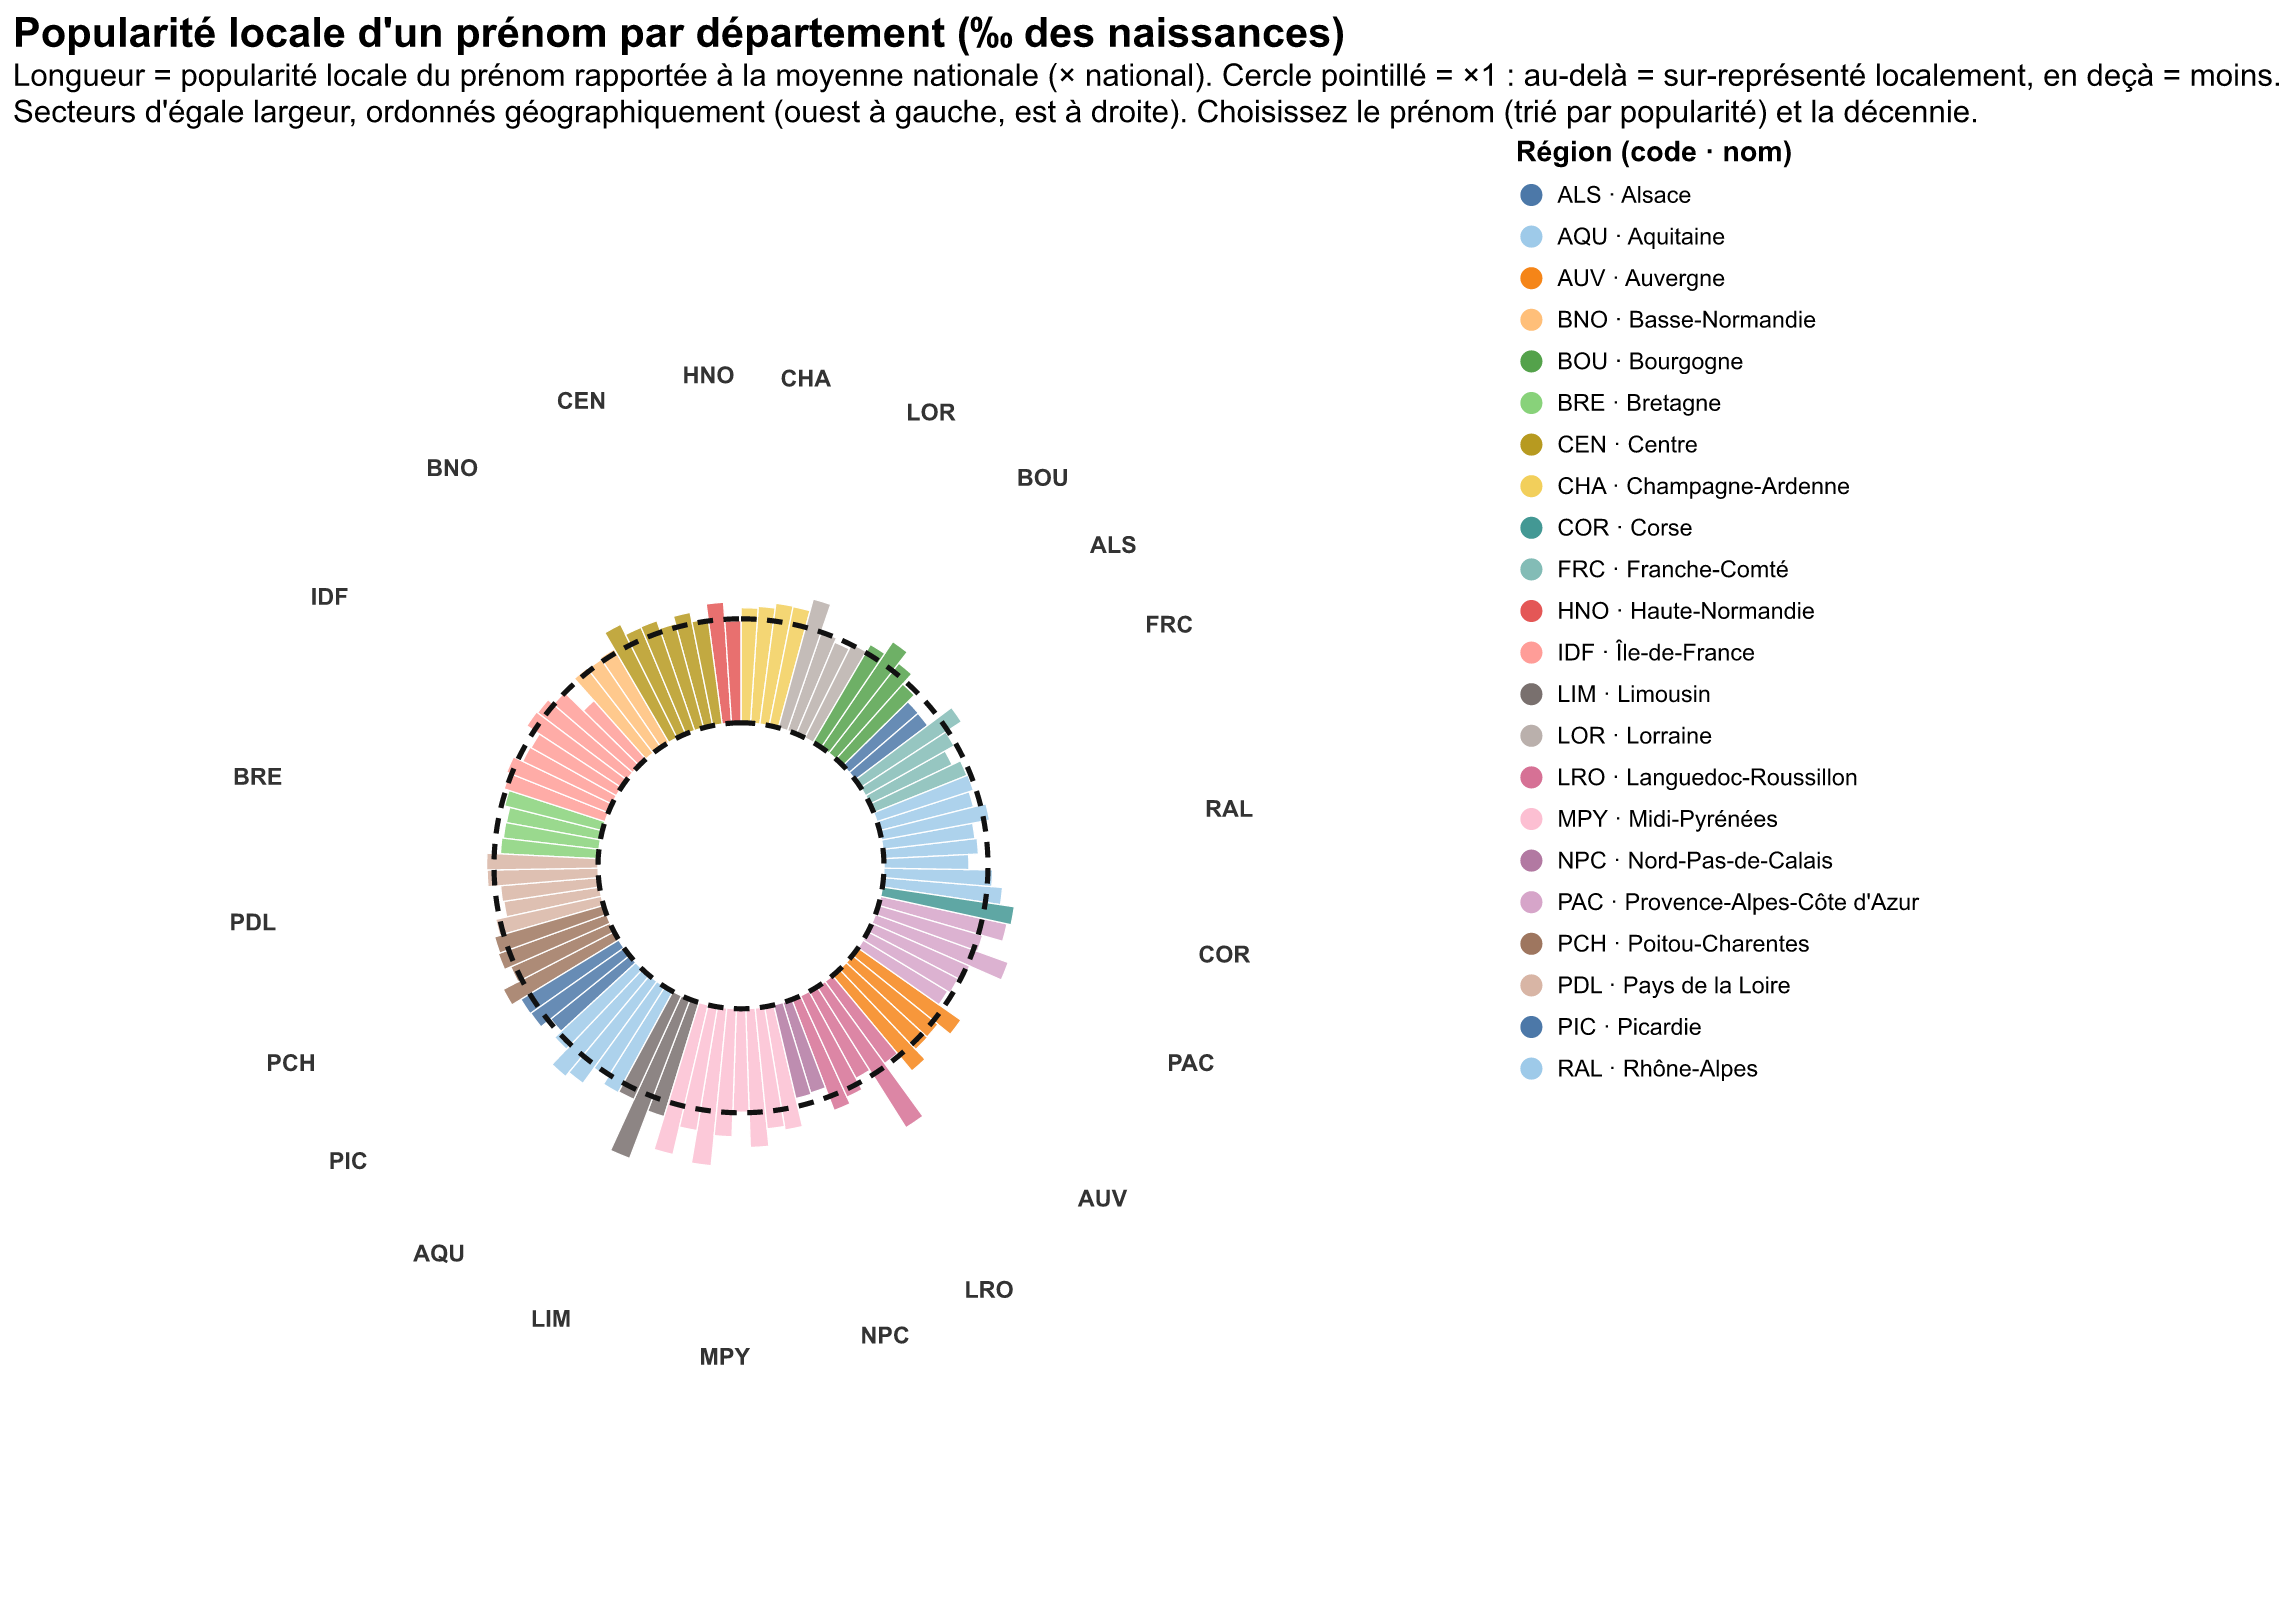
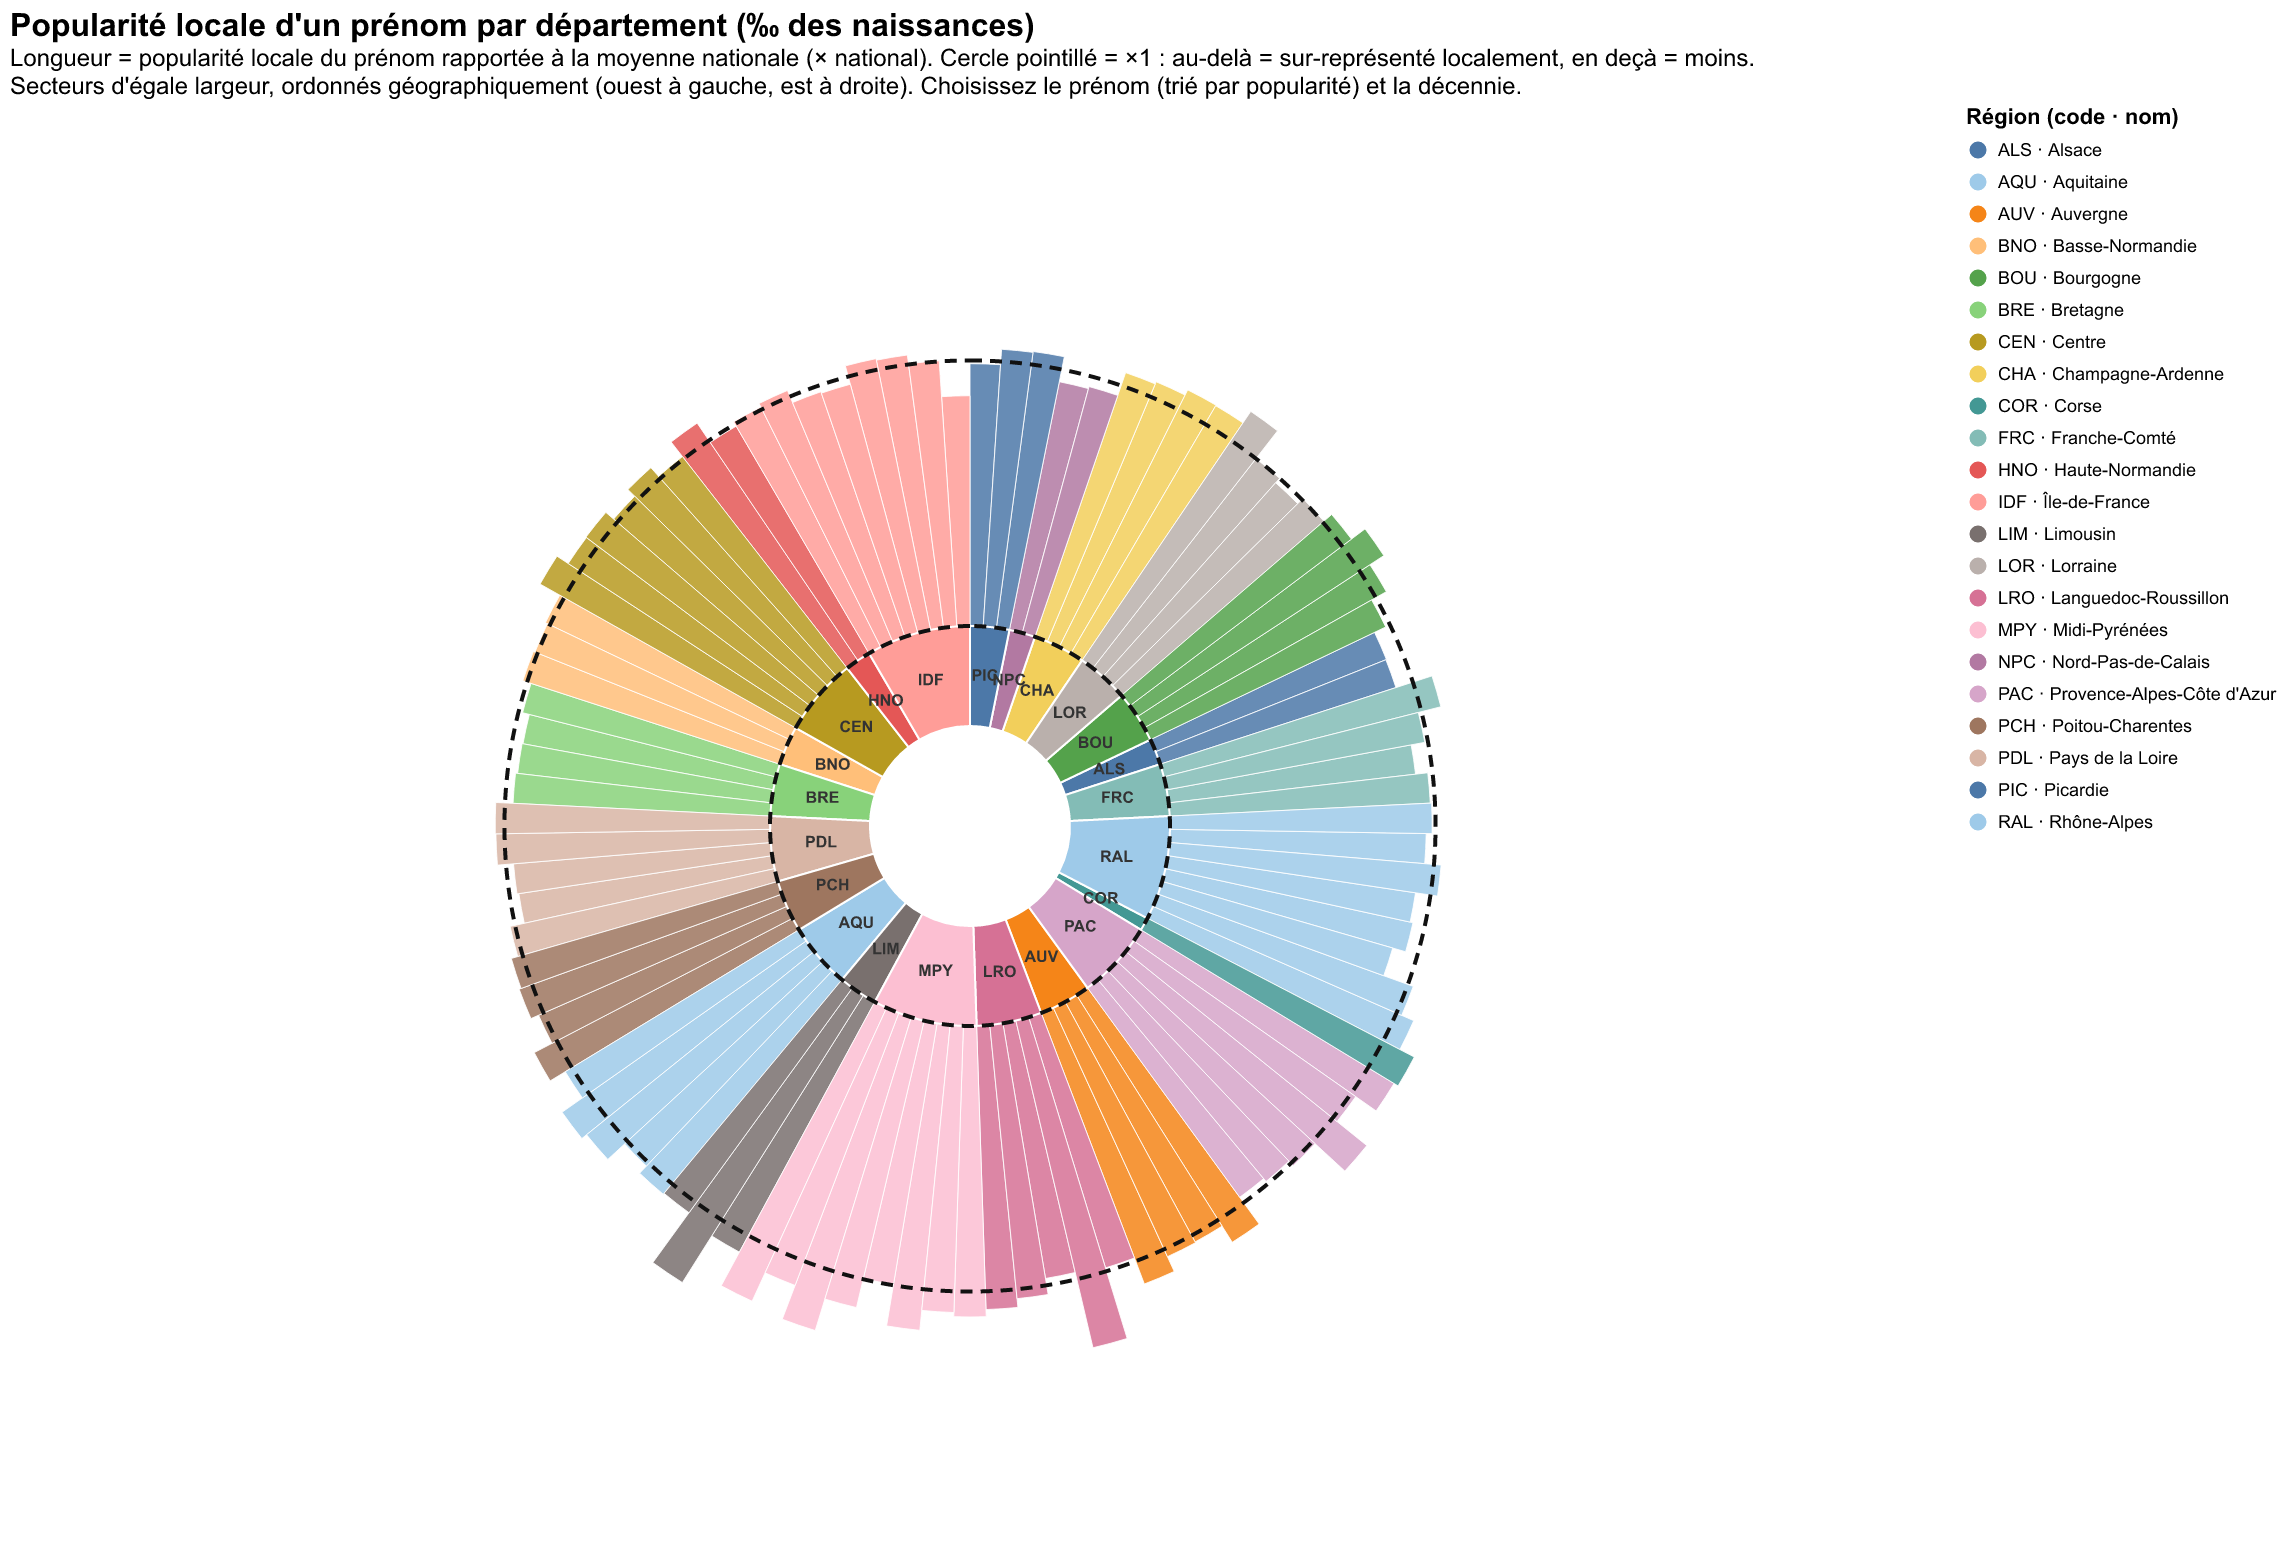
Updating Viz2 Sunburst2 to adjust size to popularity and add region layer

diff --git a/scripts/build_viz2_sunburst_2.py b/scripts/build_viz2_sunburst_2.py
@@ -13,13 +13,14 @@ Reprend les remarques du groupe :
 """
 import json
 import math
+import numpy as np
 import pandas as pd
 import altair as alt
 
 alt.data_transformers.disable_max_rows()
 
 # ---------------- données ----------------
-raw = pd.read_csv("data/dpt2020.csv", sep=";", dtype=str)
+raw = pd.read_csv("../data/dpt2020.csv", sep=";", dtype=str)
 raw = raw[(raw.preusuel != "_PRENOMS_RARES") & (raw.annais != "XXXX") & (raw.dpt != "XX")]
 raw["nombre"] = raw["nombre"].astype(int)
 raw["annais"] = raw["annais"].astype(int)
@@ -46,7 +47,7 @@ raw["region"] = raw.dpt.map(DEP2REG)
 raw = raw[raw.region.notna()]
 
 # ---------------- centroïdes & ordre pseudo-géographique ----------------
-feats = json.load(open("data/departements.geojson", encoding="utf-8"))["features"]
+feats = json.load(open("../data/departements.geojson", encoding="utf-8"))["features"]
 DNAME = {f["properties"]["code"]: f["properties"]["nom"] for f in feats}
 
 
@@ -70,18 +71,24 @@ cx = sum(cent[d][0] for d in deps) / len(deps)
 cy = sum(cent[d][1] for d in deps) / len(deps)
 
 
-def bearing(d):  # 0 = nord, sens horaire
+def dep_bearing(d):
     lon, lat = cent[d]
     return math.atan2(lon - cx, lat - cy) % (2 * math.pi)
 
+def reg_bearing(reg):
+    deps = REGIONS[reg][1].split()
 
-reg_bear = {reg: sum(bearing(d) for d in REGIONS[reg][1].split())
-            / len(REGIONS[reg][1].split()) for reg in REGIONS}
+    lon = sum(cent[d][0] for d in deps) / len(deps)
+    lat = sum(cent[d][1] for d in deps) / len(deps)
+
+    return math.atan2(lon - cx, lat - cy) % (2 * math.pi)
+
+
+reg_bear = {reg: reg_bearing(reg) for reg in REGIONS}
 ordered = []
 for reg in sorted(REGIONS, key=lambda r: reg_bear[r]):
-    for d in sorted(REGIONS[reg][1].split(), key=bearing):
+    for d in sorted(REGIONS[reg][1].split(), key=dep_bearing):
         ordered.append(d)
-
 N = len(ordered)
 W = 2 * math.pi / N
 geo = {d: dict(theta=i * W, theta2=(i + 1) * W) for i, d in enumerate(ordered)}
@@ -125,6 +132,25 @@ nd = nd.merge(name_nat[["preusuel", "decade", "nat_permille"]], on=["preusuel", 
 nd["ratio"] = (nd.permille / nd.nat_permille).round(3)
 # données embarquées slim (la géo est jointe via lookup pour alléger le HTML)
 val_df = nd[["preusuel", "dpt", "decade", "ratio", "permille", "nat_permille"]]
+# Square root transform for a better scale
+val_df["permille"]=np.sqrt(val_df["permille"])
+val_df["nat_permille"]=np.sqrt(val_df["nat_permille"])
+
+# ---------------- préparation anneau région ----------------
+# Number of departments per region
+reg_df['num_d'] = [
+    len(REGIONS[region][1].split())
+    for region in reg_df['region']
+]
+reg_df['reglabel']=reg_df['code'] + " · " + reg_df['region']
+
+#Computation of angular values for each region
+delta = 2 * math.pi / 95
+tmp = reg_df.sort_values("tmid").copy()
+tmp["width"] = tmp["num_d"] * delta
+tmp["theta"] = tmp["width"].cumsum().shift(fill_value=0)
+tmp["theta2"] = tmp["theta"] + tmp["width"]
+reg_df = tmp.sort_index()
 
 # ---------------- paramètres interactifs ----------------
 import sys
@@ -138,9 +164,14 @@ prenom = alt.param(name="prenom", value=DEF_NAME,
 dec = alt.param(name="decennie", value=DEF_DEC,
                 bind=alt.binding_range(min=1900, max=2020, step=10, name="Décennie  "))
 
-R0, R = 55, 175
+R0, R = 100, 400
+max_permille = val_df["permille"].max()
 # échelle sur le ratio (×national) : cercle fixe à ×1, pics régionaux vers l'extérieur
-rscale = alt.Scale(type="sqrt", domain=[0, 9], range=[R0, R], clamp=True)
+pscale = alt.Scale(
+    type="sqrt",
+    domain=[0, max_permille],
+    range=[R0, R]
+)
 
 flt = "datum.preusuel == prenom && datum.decade == decennie"
 hover = alt.selection_point(on="mouseover", fields=["dpt"], empty=False)
@@ -150,7 +181,7 @@ base = (alt.Chart(val_df).add_params(prenom, dec).transform_filter(flt)
 
 bars = base.mark_arc(stroke="white", strokeWidth=0.5).encode(
     theta=alt.Theta("theta:Q", scale=None), theta2=alt.Theta2("theta2:Q"),
-    radius=alt.Radius("ratio:Q", scale=rscale), radius2=alt.value(R0),
+    radius=alt.Radius("permille:Q", scale=pscale), radius2=alt.value(R0),
     color=alt.Color("reglabel:N", title="Région (code · nom)",
                     scale=alt.Scale(scheme="tableau20"),
                     legend=alt.Legend(columns=1, symbolLimit=30, labelFontSize=9)),
@@ -163,15 +194,47 @@ bars = base.mark_arc(stroke="white", strokeWidth=0.5).encode(
 ).add_params(hover)
 
 # cercle de référence FIXE à ×1 (= niveau national), identique pour tout prénom
-ref_outline = alt.Chart(pd.DataFrame({"ratio": [1.0]})).mark_arc(
-    theta=0, theta2=2 * math.pi, fill=None, stroke="#111",
-    strokeWidth=2, strokeDash=[6, 4]).encode(radius=alt.Radius("ratio:Q", scale=rscale))
+ref_outline = (
+    base
+    .mark_arc(
+        theta=0,
+        theta2=2*math.pi,
+        fill=None,
+        stroke="#111",
+        strokeWidth=2,
+        strokeDash=[6,4]
+    )
+    .encode(
+        radius=alt.Radius("nat_permille:Q", scale=pscale)
+    ).transform_aggregate(
+        nat_permille="mean(nat_permille)"
+)
+)
 
-reglabels = alt.Chart(reg_df).mark_text(fontSize=9, fontWeight="bold", color="#333").encode(
-    theta=alt.Theta("tmid:Q", scale=None), radius=alt.value(R + 14), text="code:N")
+reglabels = alt.Chart(reg_df).mark_text(fontSize=8, fontWeight="bold", color="#333").encode(
+    theta=alt.Theta("tmid:Q", scale=None), radius=alt.value(R0 - 25), text="code:N")
 
-chart = (bars + ref_outline + reglabels).properties(
-    width=560, height=560,
+region_ring = (
+    alt.Chart(reg_df)
+    .mark_arc(
+        stroke="white",
+        strokeWidth=1
+    )
+    .encode(
+        theta=alt.Theta("theta:Q", scale=None),theta2=alt.Theta2("theta2:Q"),
+        radius=alt.value(R0),radius2=alt.value(R0 - 50),
+        color=alt.Color("reglabel:N",scale=alt.Scale(scheme="tableau20"),legend=None
+        ),
+
+        tooltip=[
+            alt.Tooltip("reglabel:N", title="Région"),
+            alt.Tooltip("num_d:Q", title="Départements")
+        ]
+    )
+)
+
+chart = (bars + region_ring + ref_outline + reglabels).properties(
+    width=960, height=720,
     title=alt.TitleParams(
         "Popularité locale d'un prénom par département (‰ des naissances)",
         subtitle=["Longueur = popularité locale du prénom rapportée à la moyenne nationale "
@@ -181,7 +244,7 @@ chart = (bars + ref_outline + reglabels).properties(
         anchor="start", fontSize=16),
 ).configure_view(stroke=None)
 
-chart.save("output/viz2_sunburst_2.html")
+chart.save("../output/viz2_sunburst_2.html")
 print("OK output/viz2_sunburst_2.html | prénoms:", len(opts), "| lignes:", len(nd))
-chart.save("sketches/viz2_sunburst_2_preview.png", scale_factor=2.6)
+chart.save("../sketches/viz2_sunburst_2_preview.png", scale_factor=2)
 print("OK sketches/viz2_sunburst_2_preview.png")